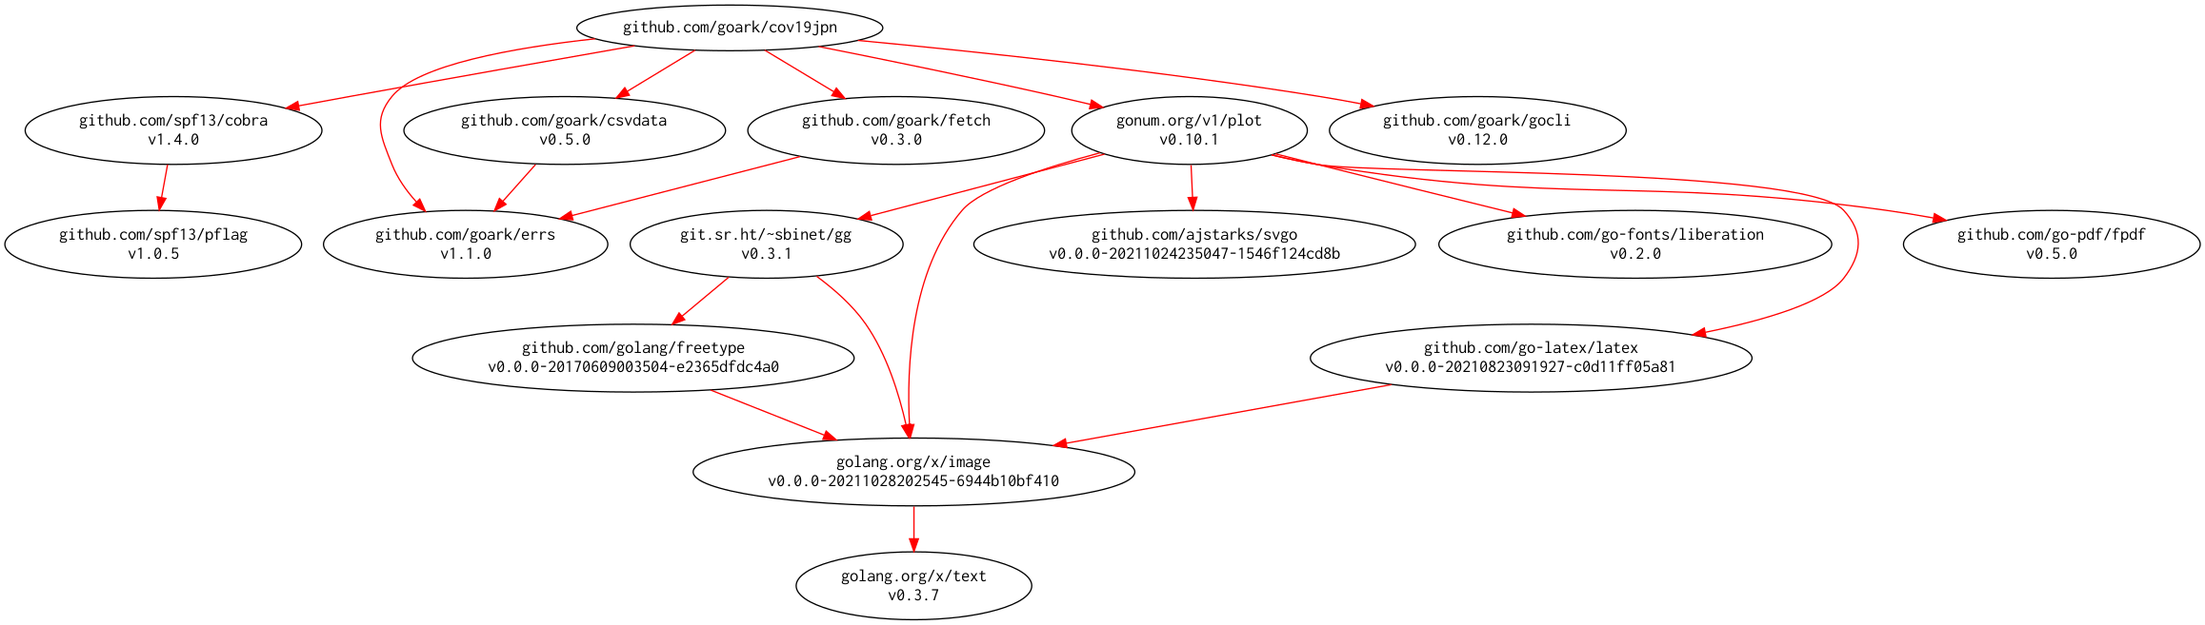
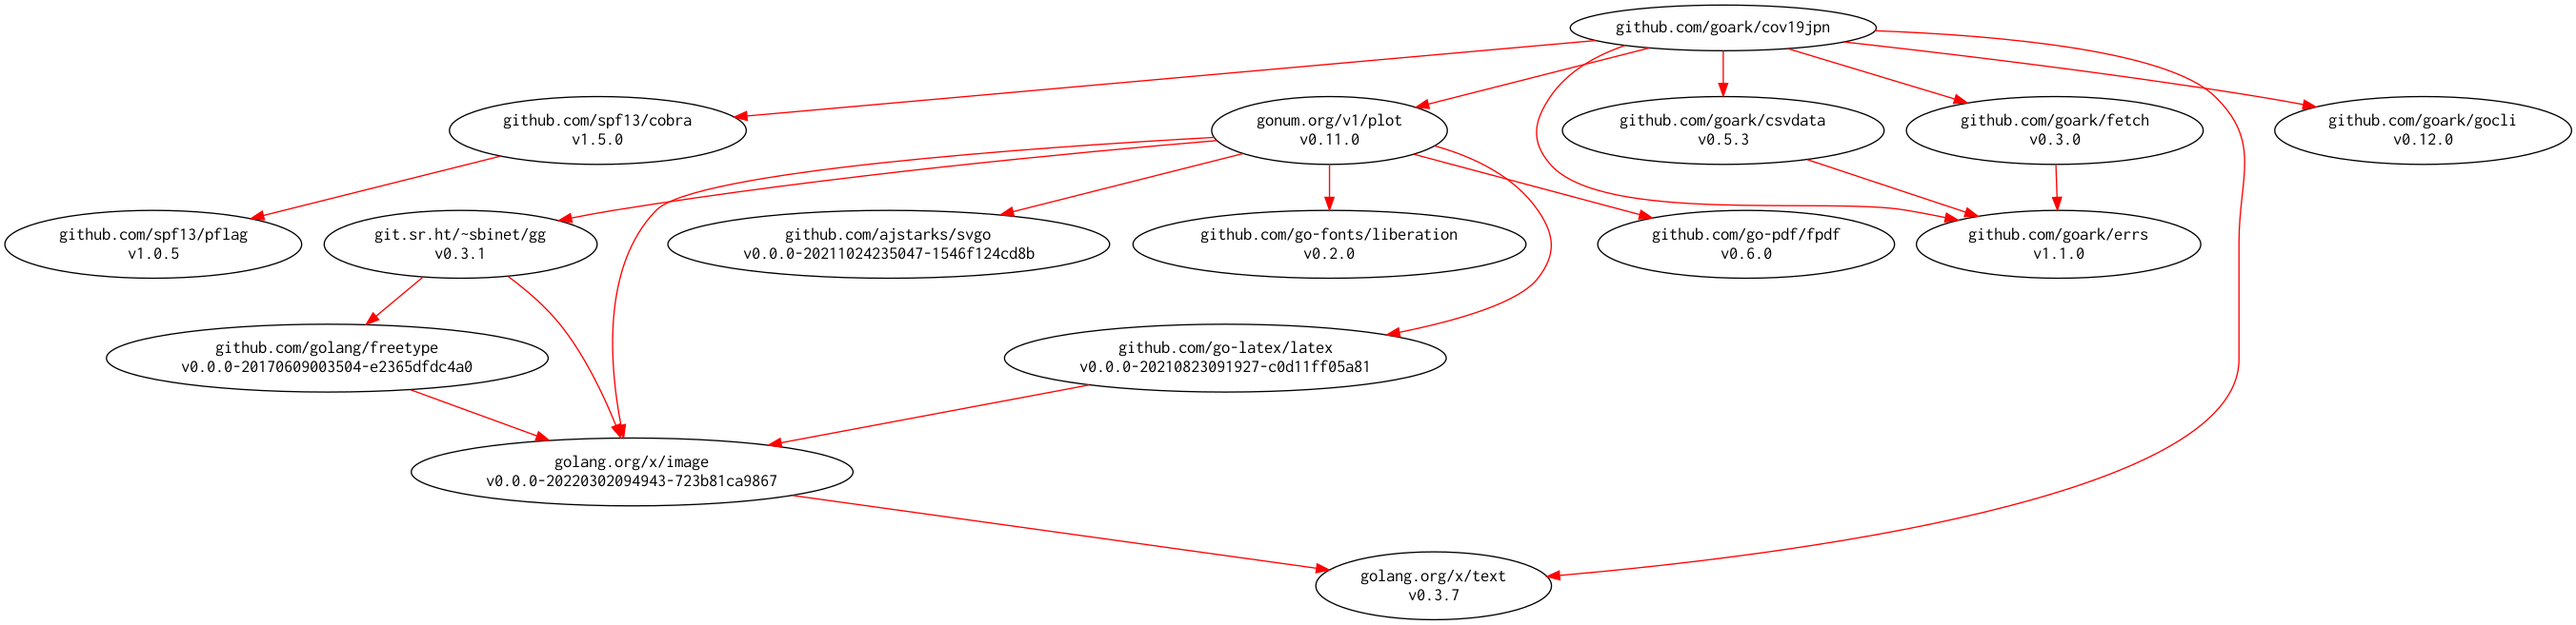
Fix strings.Title function

diff --git a/values/prefcodejpn/prefcodejp.go b/values/prefcodejpn/prefcodejp.go
@@ -4,6 +4,9 @@ import (
 	"fmt"
 	"strconv"
 	"strings"
+
+	"golang.org/x/text/cases"
+	"golang.org/x/text/language"
 )
 
 //Code is prefecture code in Japan
@@ -167,7 +170,7 @@ func (pc Code) NameUpper() string {
 }
 
 func (pc Code) Title() string {
-	return strings.Title(pc.Name())
+	return cases.Title(language.Und, cases.NoLower).String(pc.Name())
 }
 
 //UnmarshalJSON method returns result of Unmarshal for json.Unmarshal().
